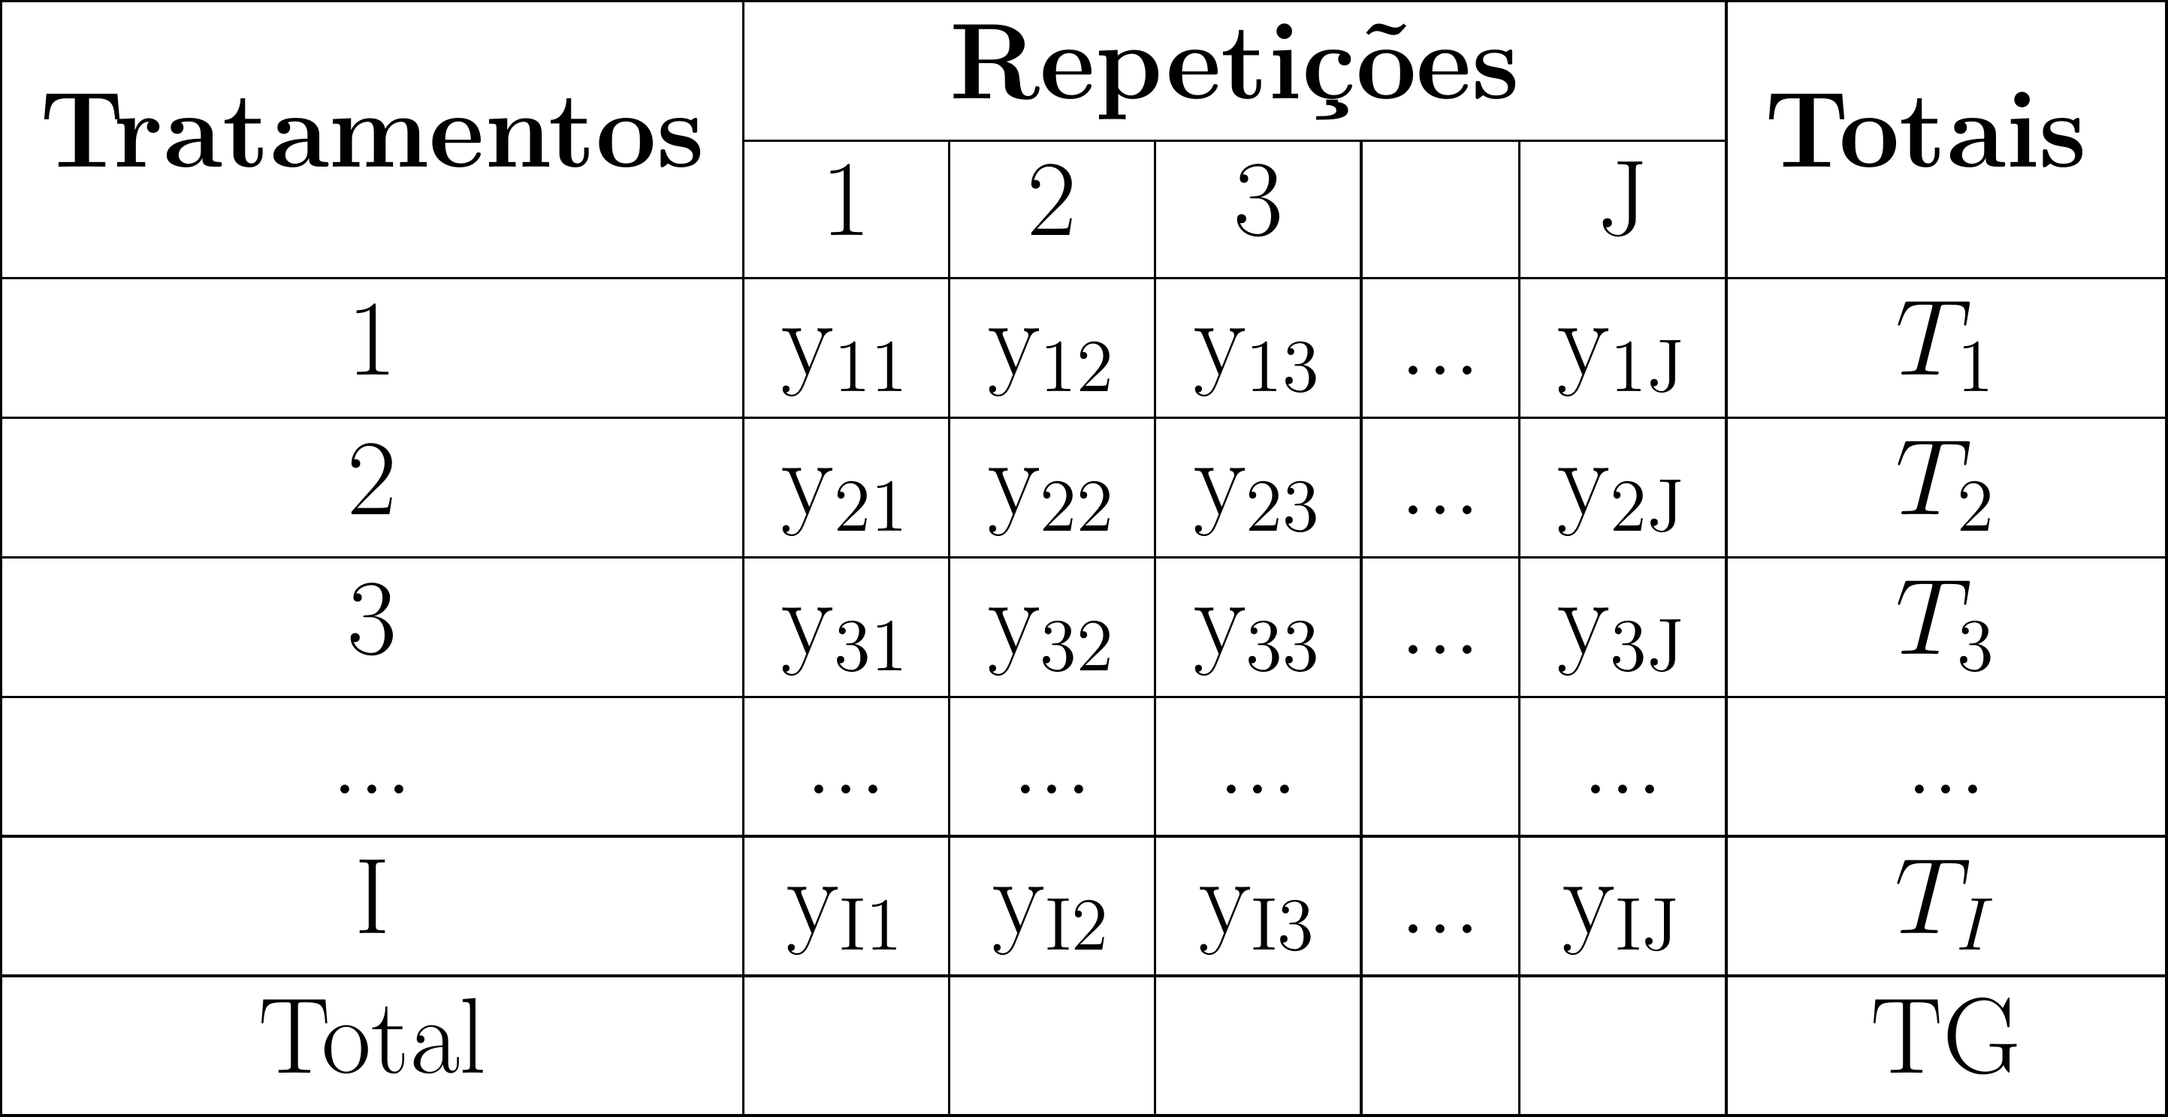
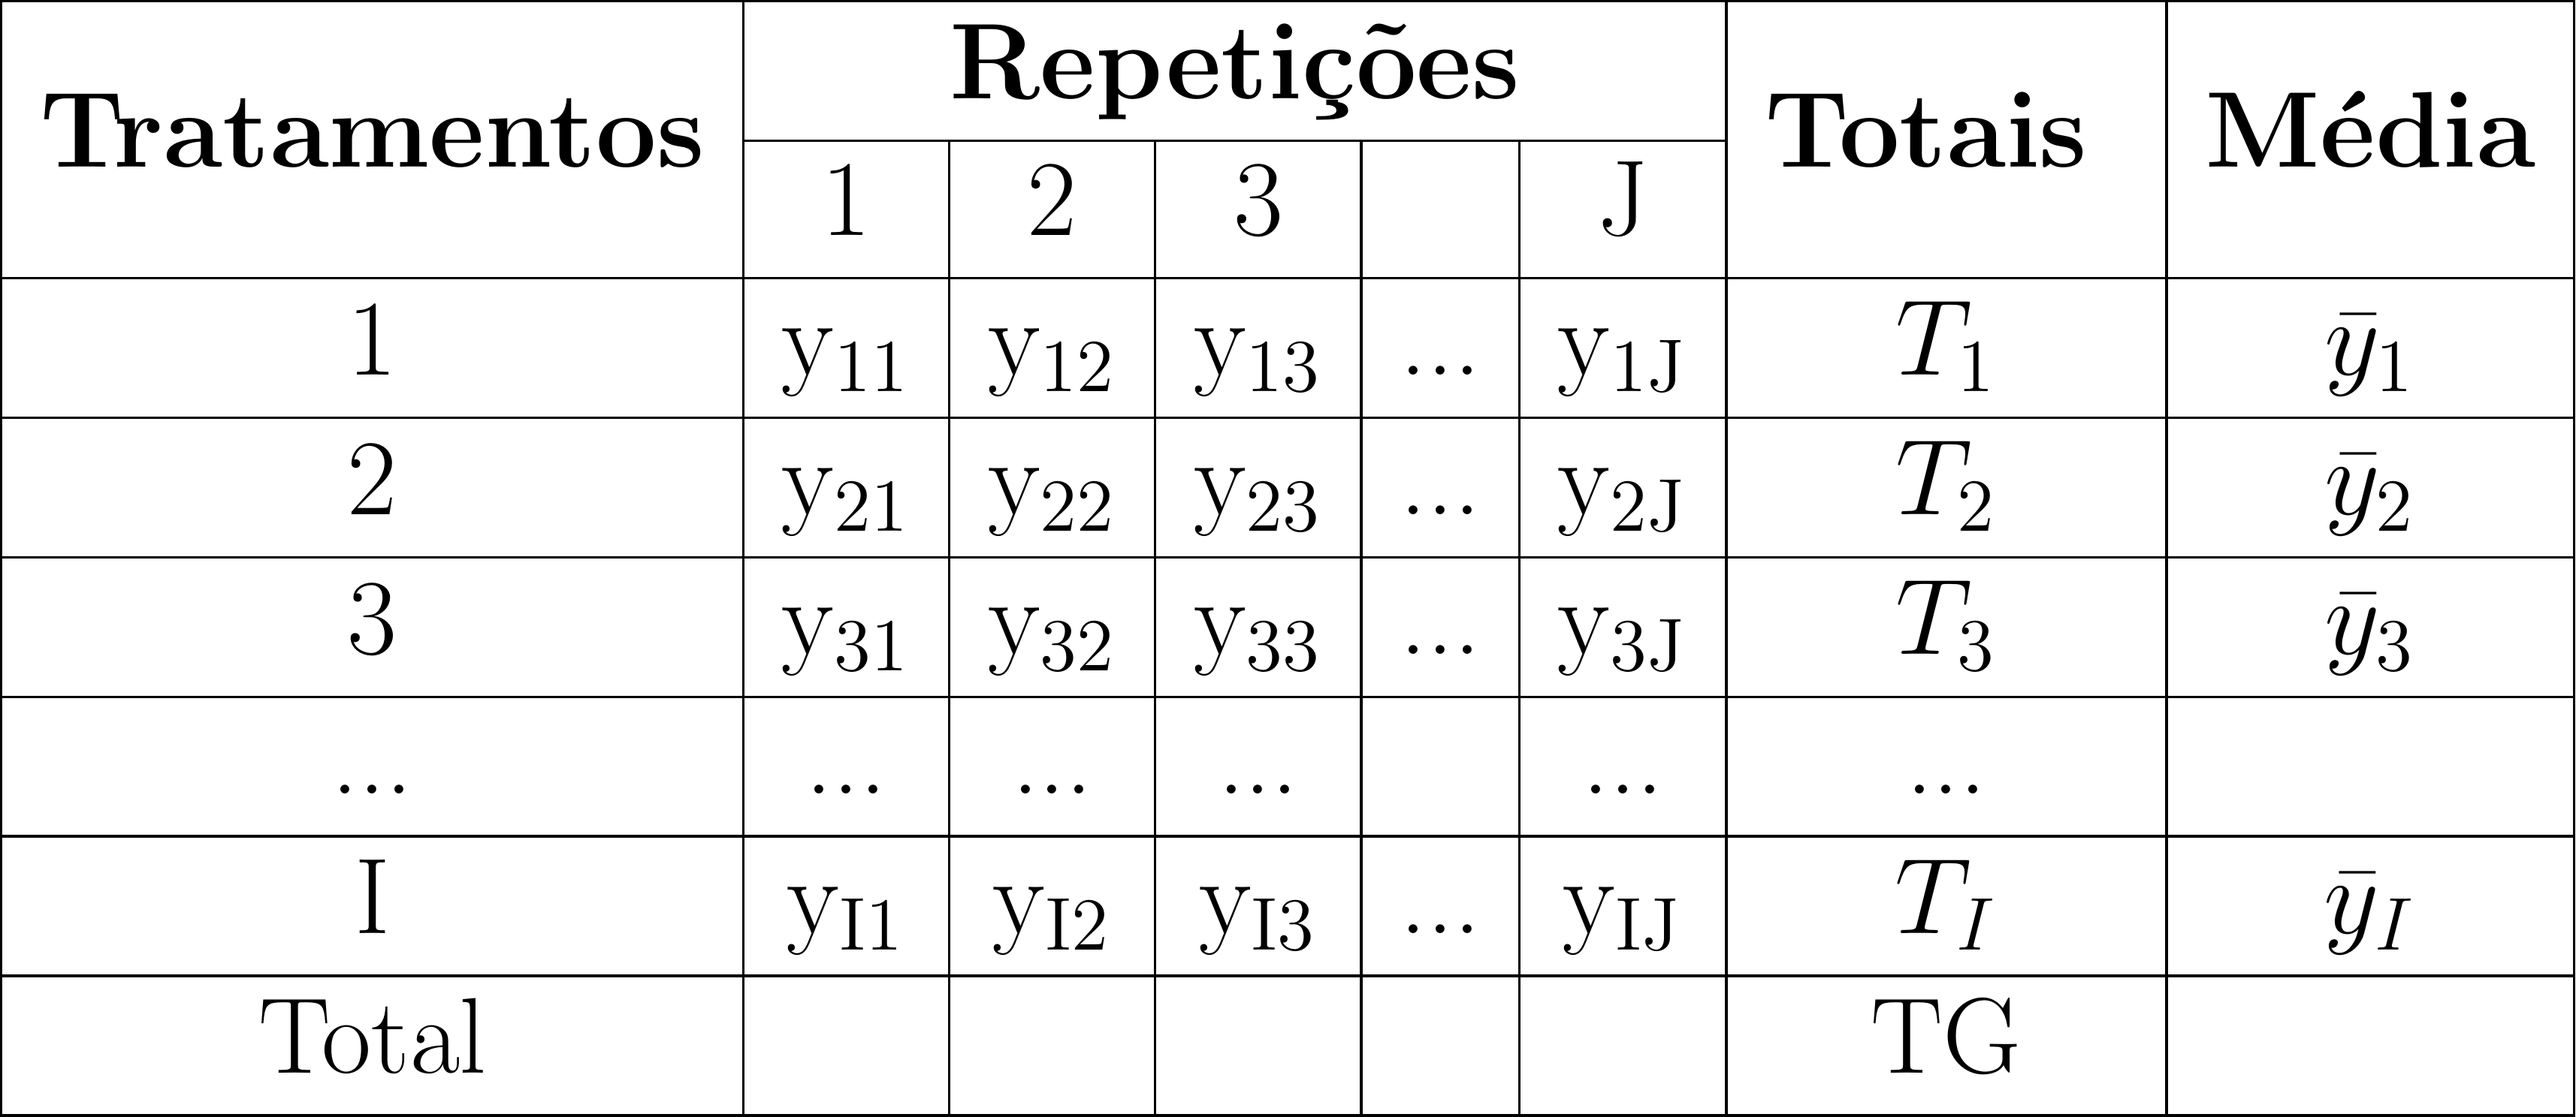
Update class 4

diff --git a/Slides/Aula4-DIC.html b/Slides/Aula4-DIC.html
@@ -7,7 +7,7 @@
     <script src="Aula4-DIC_files/header-attrs-2.7/header-attrs.js"></script>
     <link href="Aula4-DIC_files/remark-css-0.0.1/default.css" rel="stylesheet" />
     <link href="Aula4-DIC_files/xaringanExtra-extra-styles-0.2.6/xaringanExtra-extra-styles.css" rel="stylesheet" />
-    <script type="application/json" id="xaringanExtra-editable-docid">{"id":"ee6e1219e1d54ee2b3c1ba6a8962c868","expires":1}</script>
+    <script type="application/json" id="xaringanExtra-editable-docid">{"id":"x47070ab024744d1bb583686d365aebf","expires":1}</script>
     <script src="Aula4-DIC_files/himalaya-1.1.0/himalaya.js"></script>
     <script src="Aula4-DIC_files/js-cookie-3.0.0/js.cookie.js"></script>
     <link href="Aula4-DIC_files/editable-0.2.6/editable.css" rel="stylesheet" />
@@ -98,7 +98,7 @@ top:.8em;right:-.5em;
 #### Faculdade de Engenharia Florestal
 #### E-mail: deivisonvs@ufpa.br
 &lt;br&gt;
-##### 03/agosto/2021
+##### 04/agosto/2021
 ##### Altamira, Pará
 
 ---
@@ -514,9 +514,16 @@ Para um experimento em DIC com **I** tratamentos (i = 1, 2, 3..., I) e **J** rep
 ]
 
 .pull-right-9[
-T1, T2, T3,...,TI = Soma dos valores da variável y&lt;sub&gt;ij&lt;/sub&gt; dentro do *i*-ésimo tratamento
+`\(T_1\)`, `\(T_2\)`, `\(T_3\)`,..., `\(T_I\)` = Soma dos valores da variável y&lt;sub&gt;ij&lt;/sub&gt; dentro do *i*-ésimo tratamento.
+&lt;br&gt;
 
-, , ,...,= Média aritmética dos valores da variável “yij” dentro do i-ésimo tratamento.
+`\(y_1\)`, `\(y_2\)`, `\(y_3\)`,..., `\(y_I\)` = Média aritmética dos valores da variável y&lt;sub&gt;ij&lt;/sub&gt; dentro do *i*-ésimo tratamento.
+&lt;br&gt;&lt;br&gt;
+
+*I* = Número de tratamentos
+
+*J* = Número de repetições
+
 ]
 
 ---
